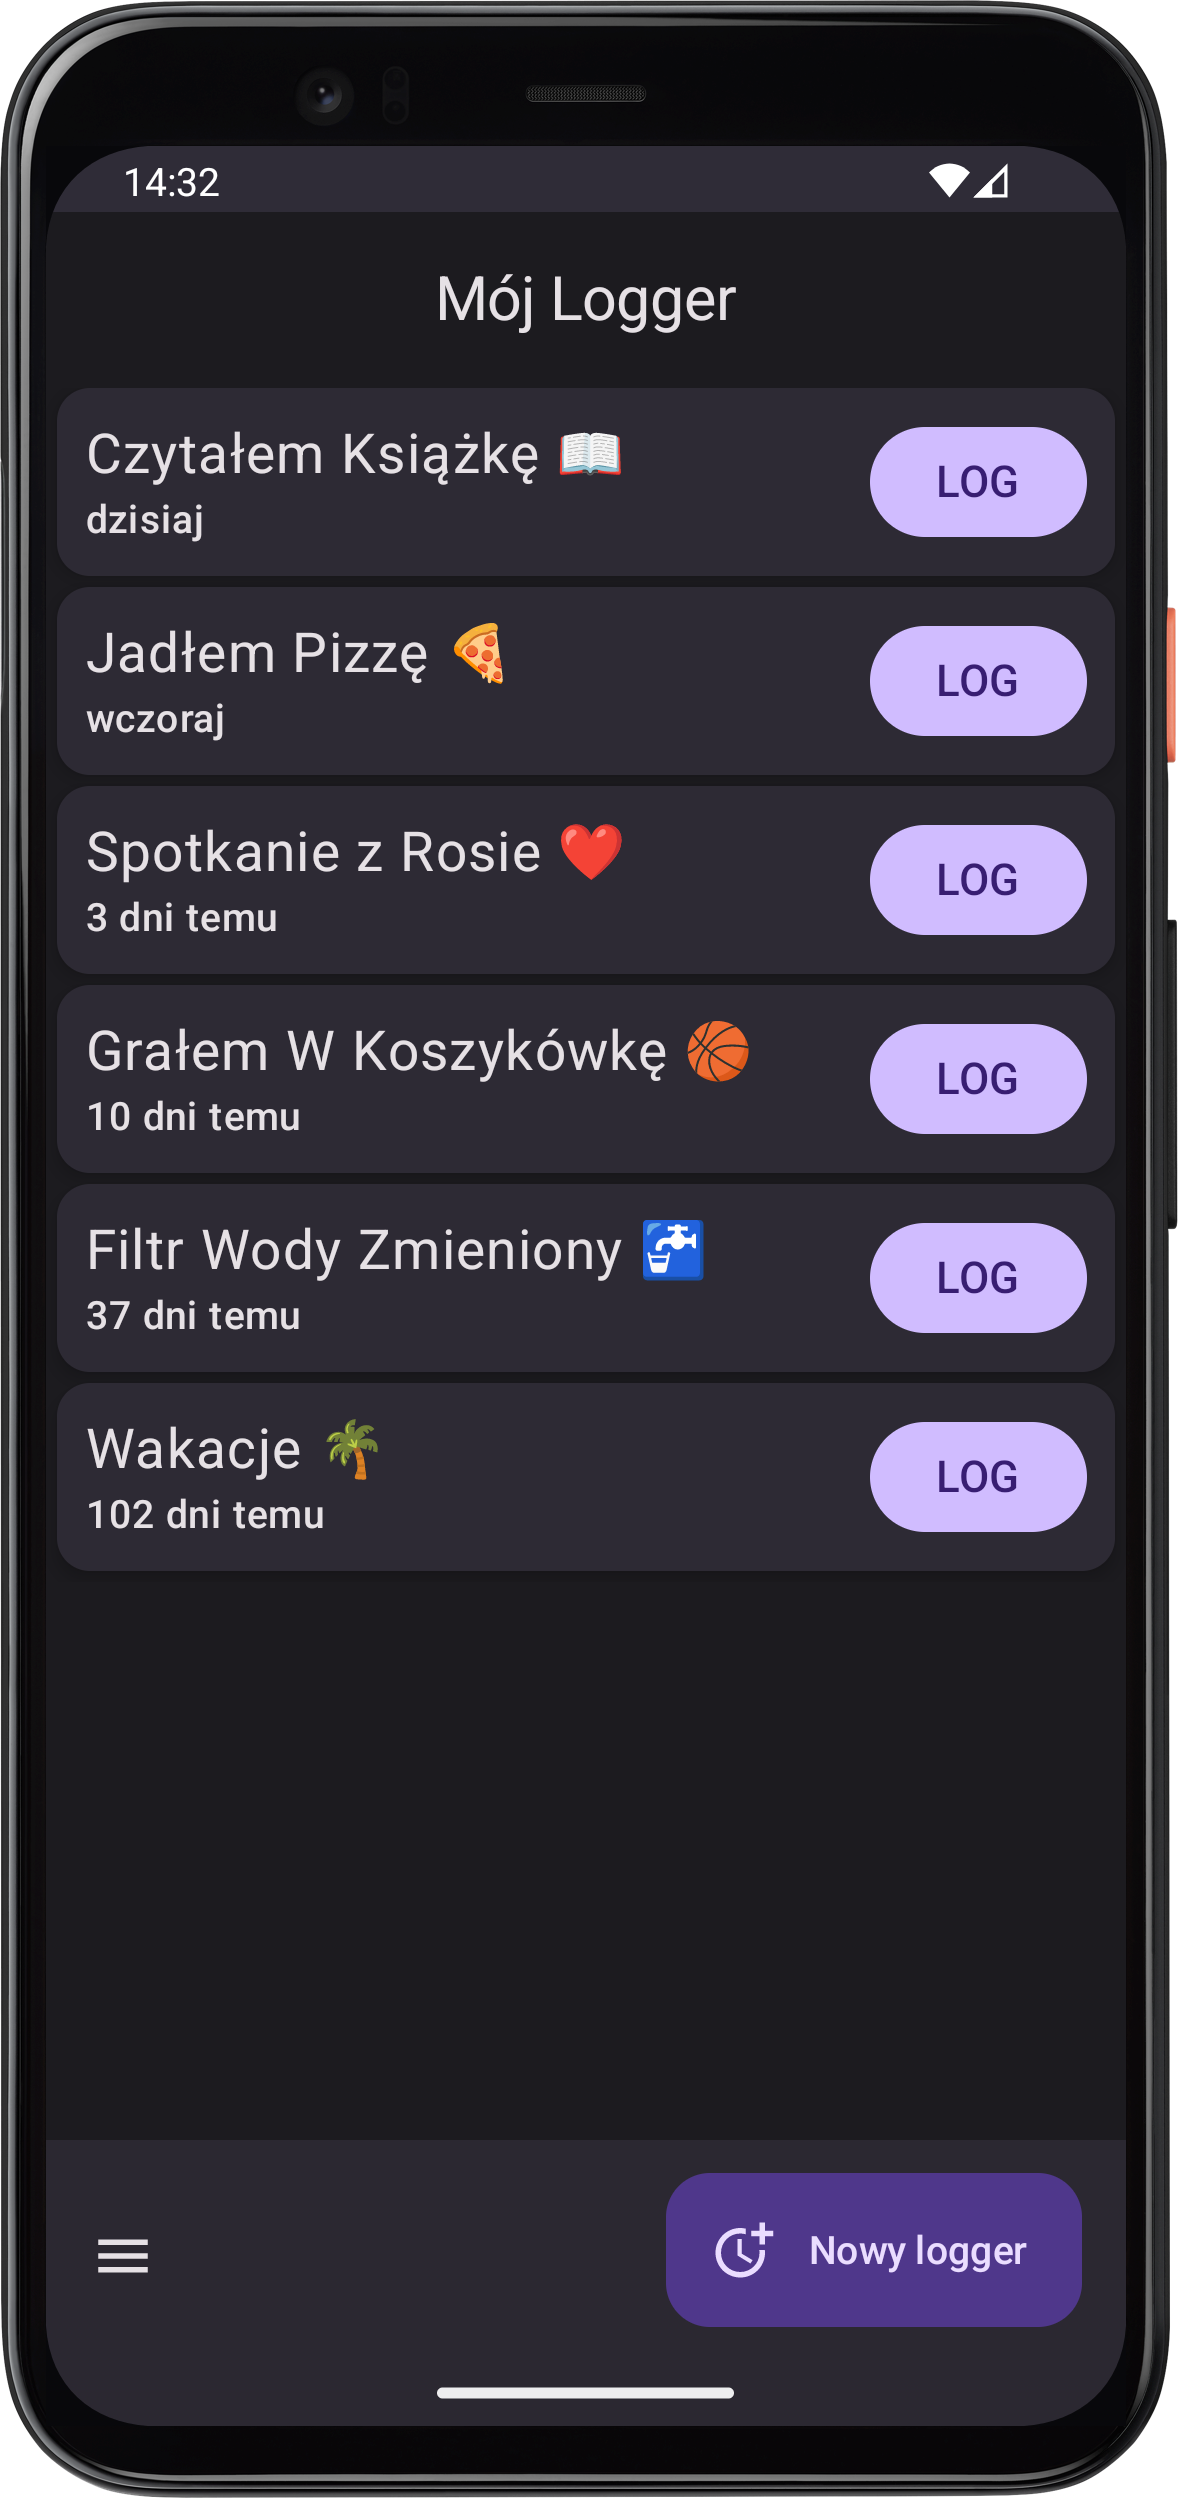
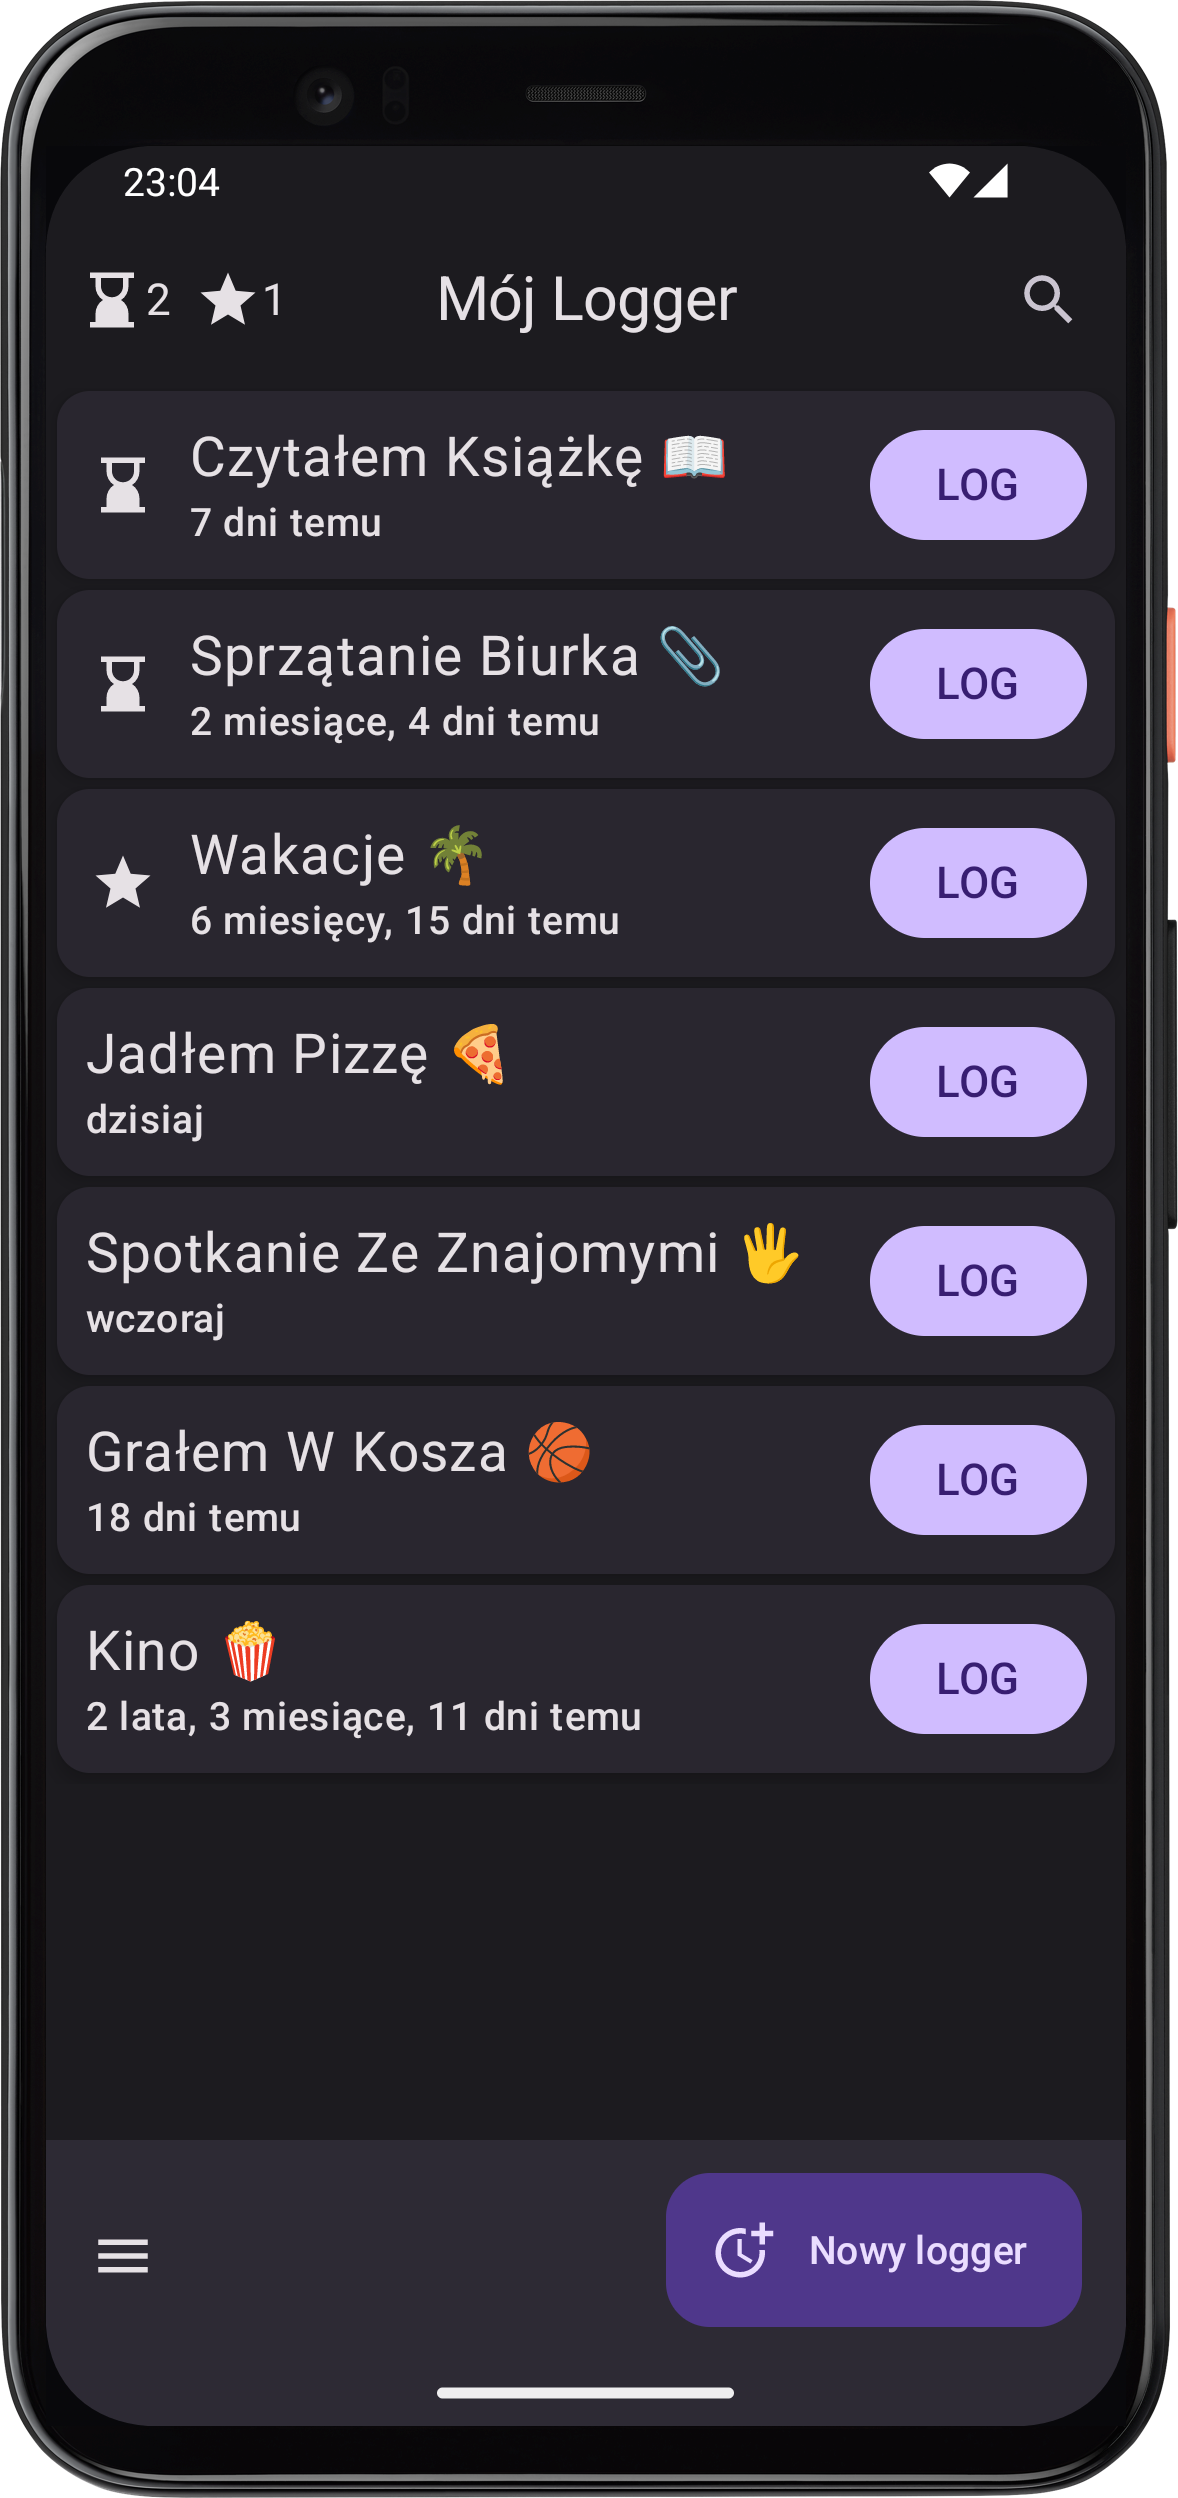
home page updates (pl): new category, new examples, new screen, benefits of logging as separate page, Android 15 supported; version 1.5 page update: more info about hourglasses

diff --git a/index.md b/index.md
@@ -21,11 +21,11 @@ title: O aplikacji
 <div class="side-by-side-reverse">
     <div class="app-screenshot-description">
         <h3>Co logować?</h3>
-        <p>W tej aplikacji możesz śledzić dowolne wydarzenia, więc żeby pomóc Ci się na coś zdecydować, proponuję następujące 4 kategorie:</p>
+        <p>W tej aplikacji możesz śledzić dowolne wydarzenia i działania. Jeśli nic nie przychodzi Ci do głowy, może zainspirują Cię poniższe kategorie i przykłady 😊:</p>
         <ol>
-            <li>to, co chcesz robić częściej
+            <li>to, co chcesz robić częściej (<a href="/version/1.6#nowy-wygląd-statystyk-📊">statystyki</a> pokażą Ci trend ⬆⬇)
                 <ul>
-                    <li>aktywność fizyczna (spacer, konkretny sport 🏐🏊♂⛳...)</li>
+                    <li>aktywność fizyczna (spacer, konkretny sport 🏐🏊♂⛳, konkretne ćwiczenie...)</li>
                     <li>inna czynność prozdrowotna (rozciąganie, zimny prysznic, medytacja 🧘♀...)</li>
                     <li>spotkania ze znajomymi, rodziną ❤</li>
                     <li>czytanie książki 📖 z kawusią ☕</li>
@@ -33,15 +33,23 @@ title: O aplikacji
             </li>
             <li>to, co chcesz robić rzadziej
                 <ul>
-                    <li>szkodliwe nawyki (alkohol 🍷, papierosy...)</li>
-                    <li>niepanowanie nad emocjami (obgryzanie paznokci, nakrzyczenie na kogoś 🙊, martwienie się...)</li>
-                    <li>zatracenie się w scrollowaniu social mediów 📱</li>
+                    <li>szkodliwe nawyki (alkohol 🍷, papierosy, obgryzanie paznokci...)</li>
+                    <li>niezdrowe jedzenie (fast foody 🍔, słodycze 🍬...)</li>
+                    <li>scrollowanie social mediów 📱</li>
+                </ul>
+            </li>
+            <li>to, co chcesz robić regularnie (<a href="/version/1.5#klepsydry-⏳">elastyczny system przypominania</a> da Ci znać, że już czas ⏳)
+                <ul>
+                    <li>odkurzanie, sprzątanie 🧹</li>
+                    <li>podlewanie kwiatków 🪴</li>
+                    <li>czyszczenie kolanka pod zlewem</li>
                 </ul>
             </li>
             <li>to, co po prostu interesuje Cię, jak często się dzieje
                 <ul>
                     <li>wymiana czegoś: gąbki do mycia naczyń, szczoteczki, baterii 🔋, worka do odkurzacza...</li>
                     <li>coś wkurzającego, co ciągle dzieje się w Twojej pracy :P</li>
+                    <li>rzęsa w oku... 👁🪡</li>
                     <li>wyjście do kina 🍿 lub teatru</li>
                 </ul>
             </li>
@@ -57,16 +65,11 @@ title: O aplikacji
     <img src="img/app-screen.png" alt="zrzut ekranu aplikacji" class="app-screenshot-right">
 </div>
 
-### Korzyści z logowania
-Zbieranie takich informacji nie tylko zaspokoi Twoją ciekawość, ale również:
-- Pomoże Ci na szybko przypomnieć sobie, kiedy i co się wydarzyło.
-- Pomoże Ci w wyznaczaniu konkretnych (bo liczbowych), mierzalnych (bo masz logger) i realnych (bo wiesz, gdzie jesteś) celów i postanowień.
-- Pomoże Ci w podejmowaniu codziennych decyzji (bo już wiesz, czy ta droższa gąbka się opłaca, czy nie 😜).
-- Zwiększy Twoją świadomość, jak wygląda Twoje życie w aspektach, które monitorujesz. To z kolei ma całą gamę kolejnych korzyści:
-    - Zwiększone poczucie kontroli nad własnym życiem. Da Ci to satysfakcję, spokój ducha, większą pewność siebie oraz motywację do zmiany na lepsze 🙂.
-    - Lepsze rozumienie siebie i swojego otoczenia, co prowadzi do wielu korzyści emocjonalnych i praktycznych.
-    - Identyfikacja aspektów, które warto poprawić (dotyczących zdrowia, relacji, finansów, pracy, czasu dla siebie – co tylko sobie zalogujesz 😉).
-    - Identyfikacja zasobów, z których korzystasz inaczej, niż byś chciał (czas, energia, pieniądze).
+### Chcesz wiedzieć więcej?
+Być może już Cię przytłoczyłem ilością informacji, ale jeśli wręcz przeciwnie, zerknij na te artykuły!
+- [Korzyści z logowania](korzysci-z-logowania)
+- [w planach] real-life przykłady moich własnych loggerów
+- [w planach] tipy, jak wykorzystać pełen potencjał aplikacji
 
 ### Wypróbuj wersję beta!
 Jesteś jedną z tych szczęśliwych osób, która trafiła tu bardzo wcześnie! 🎉 Obecnie aplikacja jest na etapie tworzenia i nie jest publicznie dostępna w Sklepie Play. Nadal jednak możesz ją mieć! Jeśli chcesz **całkowicie za darmo** otrzymać opisane wyżej korzyści, wypełnij <a href="https://forms.gle/1XGxMdjh5RKmZWat8" target="_blank">ten formularz</a>, a ja dam Ci dostęp do wersji beta i wyślę e-maila z linkiem do aplikacji 😊📲.
@@ -77,9 +80,9 @@ Obecnie wszystkie dane, które wprowadzasz do aplikacji, są trzymane na Twoim t
 Jeśli chcesz zabezpieczyć swoje dane na wypadek utraty telefonu, w ustawieniach możesz włączyć automatyczną kopię zapasową lub dokonać ręcznego eksportu danych do pliku CSV. Możesz go potem zaimportować do aplikacji na nowym urządzeniu.
 
 ### Wymagania systemowe
-Aplikacja jest obecnie dostosowana do Androida 14 (wkrótce pojawi się wsparcie dla Androida 15), ale zachowuje kompatybilność aż do Androida 8.0 Oreo. Jeśli więc twój telefon ma mniej niż 8 lat, będzie się nadawał 🙂.
+Aplikacja działa na wszystkich wersjach Androida od 8.0 Oreo w górę. Jeśli więc twój telefon ma mniej niż 8 lat, będzie się nadawał 🙂.
 
 <div style="height: 50px;"></div>
 
 ---
-*ostatnia aktualizacja: 02.06.2025*
+*ostatnia aktualizacja: 13.08.2025*

diff --git a/korzysci-z-logowania.md b/korzysci-z-logowania.md
@@ -1,0 +1,25 @@
+---
+layout: gradient
+title: O aplikacji
+---
+<div class="language-bar">
+    <a href="/en/">
+        <img src="/img/flags/en.png" alt="english" class="flag" />
+    </a>
+</div>
+
+# Korzyści z logowania
+Zbieranie informacji o wydarzeniach z Twojego życia oraz działaniach, które podejmujesz, nie tylko zaspokoi Twoją ciekawość, ale również:
+- Pomoże Ci na szybko przypomnieć sobie, kiedy i co się wydarzyło.
+- Pomoże Ci w wyznaczaniu konkretnych (bo liczbowych), mierzalnych (bo masz logger) i realnych (bo wiesz, gdzie jesteś) celów i postanowień.
+- Pomoże Ci w podejmowaniu codziennych decyzji (bo już wiesz, czy ta droższa gąbka się opłaca, czy nie 😜).
+- Zwiększy Twoją świadomość, jak wygląda Twoje życie w aspektach, które monitorujesz. To z kolei ma całą gamę kolejnych korzyści:
+    - Zwiększone poczucie kontroli nad własnym życiem. Da Ci to satysfakcję, spokój ducha, większą pewność siebie oraz motywację do zmiany na lepsze 🙂.
+    - Lepsze rozumienie siebie i swojego otoczenia, co prowadzi do wielu korzyści emocjonalnych i praktycznych.
+    - Identyfikacja aspektów, które warto poprawić (dotyczących zdrowia, relacji, finansów, pracy, czasu dla siebie – co tylko sobie zalogujesz 😉).
+    - Identyfikacja zasobów, z których korzystasz inaczej, niż byś chciał (czas, energia, pieniądze).
+
+<div style="height: 10px;"></div>
+
+---
+<a href="/">Przejdź do strony głównej</a>

diff --git a/version/1.5.md b/version/1.5.md
@@ -12,7 +12,7 @@ title: Wersja 1.5
     <img src="../img/features/1.5/hourglass.png" alt="screenshot" class="app-screenshot-left">
     <div class="app-screenshot-description">
         <h3>Klepsydry ⏳</h3>
-        <p>To jest główny, przewodni i kluczowy update wersji 1.5. Nie powiem Ci jednak, co się stanie, jak klikniesz tę niewinną ikonkę – poczuj dreszczyk odkrywcy! 🤠</p>
+        <p>To jest główny, przewodni i kluczowy update wersji 1.5. Od teraz możesz dla każdego loggera ustawić elastyczne przypomnienie, które poinformuje Cię, gdy od jakiegoś wydarzenia minęła określona przez Ciebie ilość czasu! Nie powiem Ci jednak, co się stanie, gdy klikniesz tę niewinną ikonkę – poczuj dreszczyk odkrywcy! 🤠</p>
     </div>
 </div>
 
